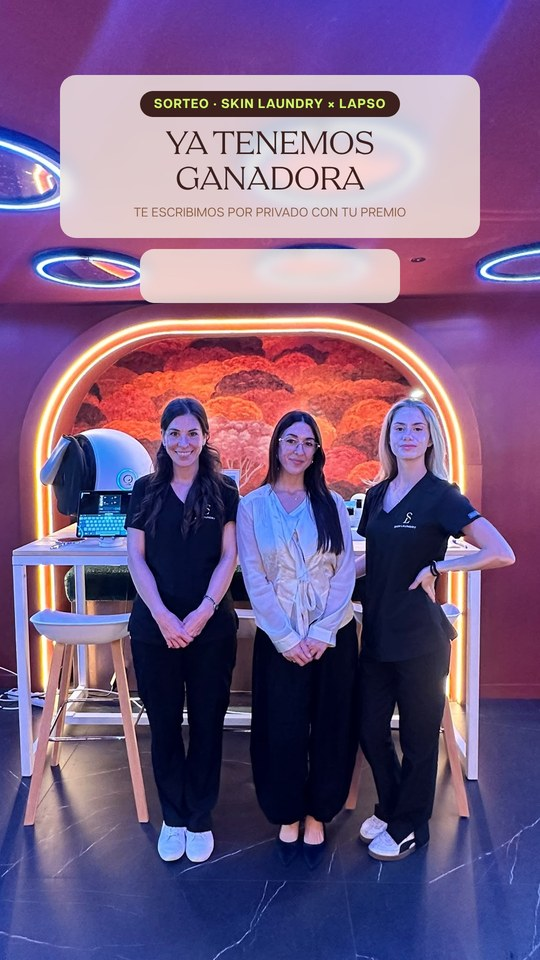
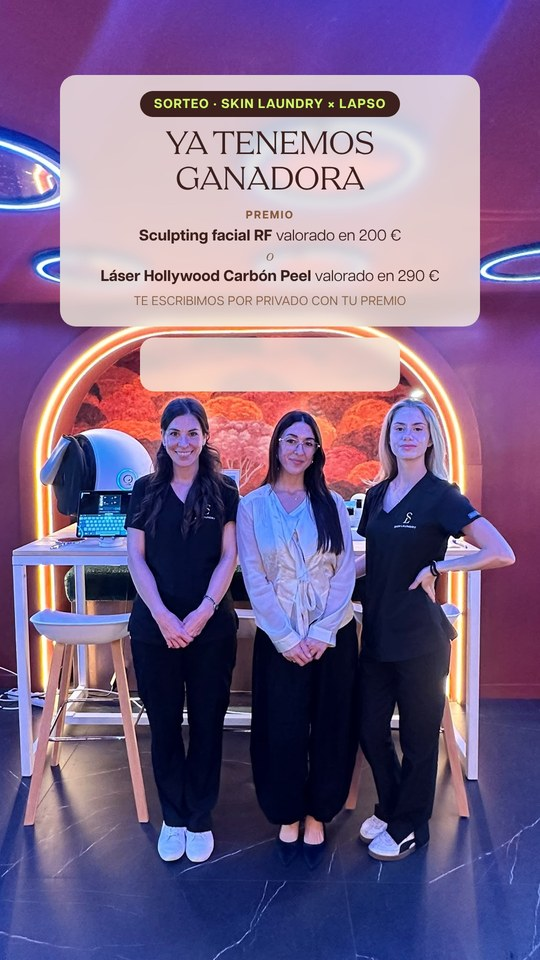
Story sorteo: añadido el premio
Claude-Session: https://claude.ai/code/session_01JZ4qrB4vBJCM1LriYw1bZU

Changed region(s): [[0.0889, 0.2188, 0.8889, 0.4062]]

diff --git a/public/pitch/skin-laundry-calendario/noviembre/index.html b/public/pitch/skin-laundry-calendario/noviembre/index.html
@@ -716,7 +716,7 @@ Reserva la tuya desde el enlace de la bio.
 
 { d:18, formato:"Carrusel", estado:"listo", cubo:"Branding", tema:"Skin Laundry × Lapso", hora:"19:00h",
   storyVisible:true, storyLbl:"Stories del día",
-  storyImgs:["/pitch/skin-laundry-calendario/noviembre/img/st_18_sorteo.jpg?v=11181005","/pitch/skin-laundry-calendario/noviembre/img/st_18_recap.mp4?v=11181102"], story:["Story 1: ganadora del sorteo · añadir la mención de la ganadora en la caja pequeña","Story 2: recap en vídeo con música · etiquetar a Lapso Studios centrado en el medio"],
+  storyImgs:["/pitch/skin-laundry-calendario/noviembre/img/st_18_sorteo.jpg?v=11181335","/pitch/skin-laundry-calendario/noviembre/img/st_18_recap.mp4?v=11181102"], story:["Story 1: ganadora del sorteo · añadir la mención de la ganadora en la caja pequeña","Story 2: recap en vídeo con música · etiquetar a Lapso Studios centrado en el medio"],
   etiqueta:"Colaboración con Lapso",
   media:"/pitch/skin-laundry-calendario/noviembre/img/d18_lapso_05.jpg?v=11180950", slides:["/pitch/skin-laundry-calendario/noviembre/img/d18_lapso_05.jpg?v=11180950","/pitch/skin-laundry-calendario/noviembre/img/d18_lapso_02.mp4?v=11180950","/pitch/skin-laundry-calendario/noviembre/img/d18_lapso_03.jpg?v=11180950","/pitch/skin-laundry-calendario/noviembre/img/d18_lapso_04.mp4?v=11180950","/pitch/skin-laundry-calendario/noviembre/img/d18_lapso_01.jpg?v=11180950","/pitch/skin-laundry-calendario/noviembre/img/d18_lapso_06.mp4?v=11180950","/pitch/skin-laundry-calendario/noviembre/img/d18_lapso_07.jpg?v=11180950","/pitch/skin-laundry-calendario/noviembre/img/d18_lapso_08.jpg?v=11180950","/pitch/skin-laundry-calendario/noviembre/img/d18_lapso_09.jpg?v=11180950","/pitch/skin-laundry-calendario/noviembre/img/d18_lapso_10.jpg?v=11180950"],
   pieza:"Glow after the Burn: así fue el evento con Lapso",
